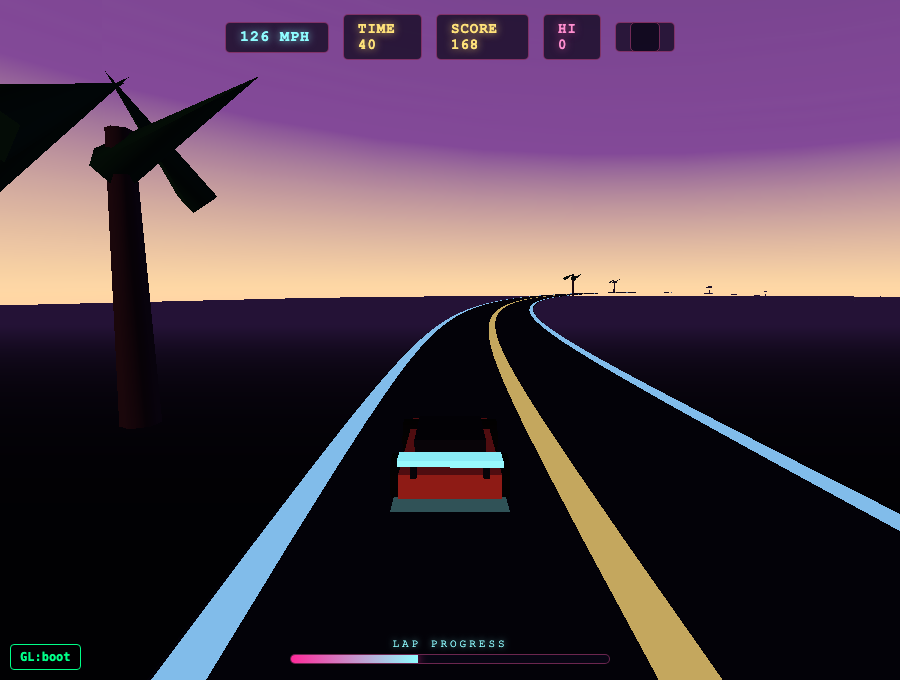
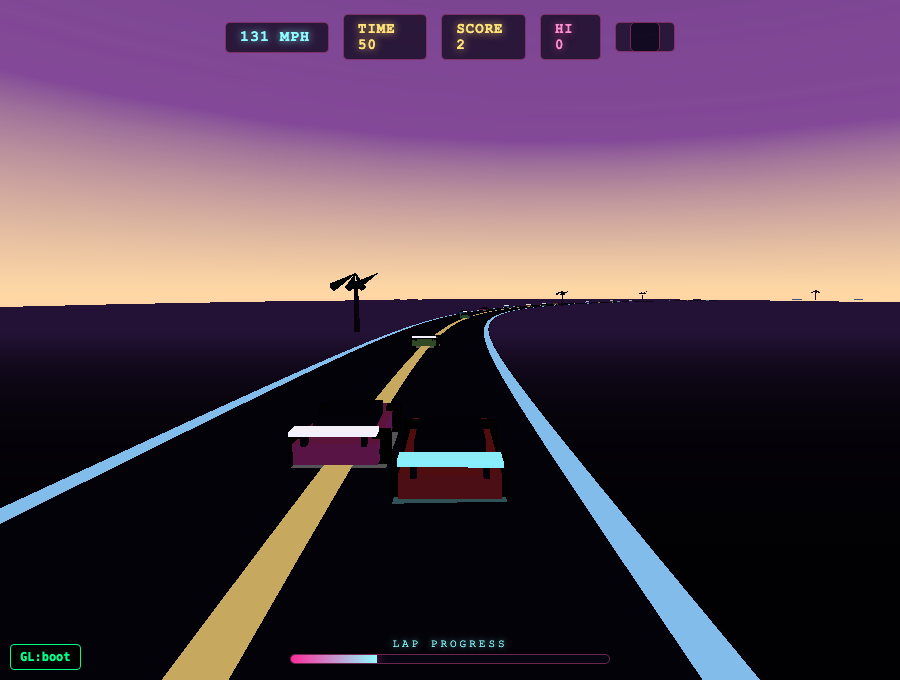
Arcade: add OutRun

diff --git a/static/arcade/outrun.html b/static/arcade/outrun.html
@@ -243,7 +243,8 @@ function buildRoad(){
     roadSegLen.push(len);
     const head = Math.atan2(dx, dz);
     roadHead.push(head);
-    roadRight.push({ x: Math.cos(head), z: -Math.sin(head) });
+    // driver's RIGHT = forward x up = (-cos h, 0, sin h) for forward (sin h, 0, cos h)
+    roadRight.push({ x: -Math.cos(head), z: Math.sin(head) });
   }
   for (let i = 0; i < ROAD_N; i++){
     const nh = roadHead[(i + 1) % ROAD_N], h = roadHead[i];
@@ -591,7 +592,7 @@ function update(){
   car.playerX += steer * P_STEER * DT;
 
   const ra = roadAt(car.pos);
-  car.playerX -= ra.curv * car.speed * P_CENTRI * DT;   // centrifugal drift
+  car.playerX += ra.curv * car.speed * P_CENTRI * DT;   // centrifugal drift (pushes outward in curves)
   car.playerX = C(car.playerX, -1.5, 1.5);
 
   // off-road: heavy slow + speed cap + shake
@@ -700,7 +701,7 @@ function draw(){
 
   // ---- player car ----
   const ra = roadAt(car.pos);
-  const rx = Math.cos(ra.head), rz = -Math.sin(ra.head);
+  const rx = -Math.cos(ra.head), rz = Math.sin(ra.head);   // driver's right vector
   const px = ra.x + rx * car.playerX * ROAD_HALF_W;
   const pz = ra.z + rz * car.playerX * ROAD_HALF_W;
   playerCar.position.set(px, ra.y, pz);
@@ -711,7 +712,8 @@ function draw(){
   for (let i = 0; i < traffic.length; i++){
     const tf = traffic[i];
     const tr = roadAt(tf.pos);
-    const trx = Math.cos(tr.head), trz = -Math.sin(tr.head);
+    const trx = -Math.cos(tr.head), trz = Math.sin(tr.head);   // driver's right vector
+    tf.mesh.visible = state !== ST.TITLE;   // hidden on title (cars stack at pos 0 until initTraffic)
     tf.mesh.position.set(tr.x + trx * tf.playerX * ROAD_HALF_W, tr.y, tr.z + trz * tf.playerX * ROAD_HALF_W);
     tf.mesh.rotation.y = tr.head;
   }
